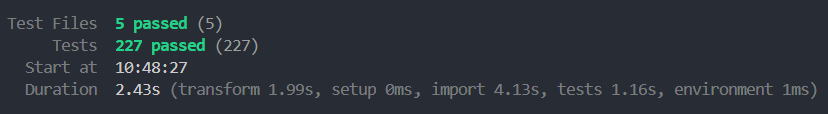
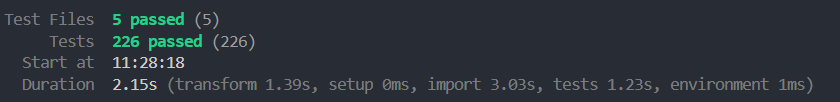
fixing tests after reserveSeats logic fix

diff --git a/api/src/modules/tickets/tickets.service.unit.test.ts b/api/src/modules/tickets/tickets.service.unit.test.ts
@@ -254,19 +254,13 @@ const makeRedisMock = (
     };
 };
 
-/** Create a Prisma mock whose findMany returns `availableSeats`.
- *  `seatCount` overrides the value returned by `seat.count`; defaults to availableSeats.length. */
-const makePrismaMock = (availableSeats: object[] = [], seatCount?: number) => ({
+const makePrismaMock = (availableSeats: object[] = []) => ({
     seat: {
-        count: vi.fn().mockResolvedValue(seatCount ?? availableSeats.length),
         findMany: vi.fn().mockResolvedValue(availableSeats),
         updateMany: vi.fn().mockResolvedValue({ count: availableSeats.length }),
     },
 });
 
-/** Build the full service under test with the given world state.
- *  `availableSeatCount` overrides what `prisma.seat.count` returns; useful for testing
- *  the dynamic upper-bound check without inflating the available-seat list. */
 const buildService = ({
     seatIds = makeSeatIds(2),
     allAvailable = true,
@@ -274,16 +268,13 @@ const buildService = ({
     lockResult = 'OK' as 'OK' | string[] | Error,
     dbError = undefined as Error | undefined,
     queueError = undefined as Error | undefined,
-    availableSeatCount = undefined as number | undefined,
 } = {}) => {
     const availableSeats = allAvailable
         ? makeAvailableSeats(seatIds.filter(id => !unavailableSeatIds.includes(id)))
         : makeAvailableSeats(seatIds.filter(id => !unavailableSeatIds.includes(id)));
 
     const redis = makeRedisMock(lockResult);
-    // Default count to seatIds.length so tests that aren't exercising the
-    // count boundary don't accidentally trip it when some seats are unavailable.
-    const prisma = makePrismaMock(availableSeats, availableSeatCount ?? seatIds.length);
+    const prisma = makePrismaMock(availableSeats);
 
     if (dbError) {
         prisma.seat.updateMany.mockRejectedValue(dbError);
@@ -356,10 +347,9 @@ describe('TicketService.reserveSeats — behavior', () => {
                 expect(result).toMatchObject(EXPECTED_SUCCESS_RETURN_OBJECT);;
             });
 
-            it(`succeeds when requesting exactly as many seats as are available in the database`, async () => {
-                // DB reports MAX_SEATS available; requesting exactly MAX_SEATS must succeed.
+            it(`succeeds with exactly MAX_SEATS (${MAX_SEATS}) seats (the maximum allowed per reservation)`, async () => {
                 const seatIds = makeSeatIds(MAX_SEATS);
-                const { service } = buildService({ seatIds, availableSeatCount: MAX_SEATS });
+                const { service } = buildService({ seatIds });
 
                 const result = await service.reserveSeats(seatIds, USER_ID);
 
@@ -372,18 +362,9 @@ describe('TicketService.reserveSeats — behavior', () => {
                 await expect(service.reserveSeats([], USER_ID)).rejects.toThrow("Invalid number of seats provided.")
             });
 
-            it(`fails immediately when requesting more seats than are available in the database`, async () => {
-                // DB reports MAX_SEATS available; requesting MAX_SEATS+1 must be rejected.
+            it(`fails immediately when requesting more than MAX_SEATS (${MAX_SEATS + 1}+) seats`, async () => {
                 const seatIds = makeSeatIds(MAX_SEATS + 1);
-                const { service } = buildService({ seatIds, availableSeatCount: MAX_SEATS });
-
-                await expect(service.reserveSeats(seatIds, USER_ID)).rejects.toThrow("Invalid number of seats provided.")
-            });
-
-            it('fails when requested seat count exceeds available count by an arbitrary margin', async () => {
-                // 3 seats available in DB, but 7 are requested.
-                const seatIds = makeSeatIds(7);
-                const { service } = buildService({ seatIds, availableSeatCount: 3 });
+                const { service } = buildService({ seatIds });
 
                 await expect(service.reserveSeats(seatIds, USER_ID)).rejects.toThrow("Invalid number of seats provided.")
             });
@@ -413,9 +394,7 @@ describe('TicketService.reserveSeats — behavior', () => {
 
             it('fails when the seat ids array contains duplicates', async () => {
                 const id = 'seat-uuid-1';
-                // reserveSeats receives 2 items; availableSeatCount must be >= 2
-                // so the count guard doesn't fire before the duplicate check.
-                const { service } = buildService({ seatIds: [id], availableSeatCount: 2 });
+                const { service } = buildService({ seatIds: [id] });
 
                 await expect(service.reserveSeats([id, id], USER_ID)).rejects.toThrow("Duplicate Seat IDs provided.")
             });
@@ -483,9 +462,7 @@ describe('TicketService.reserveSeats — behavior', () => {
             it('fails when a requested seat id does not exist in the database at all', async () => {
                 const realIds = makeSeatIds(2);
                 const ghostId = 'non-existent-seat-uuid';
-                // reserveSeats receives 3 items; availableSeatCount must be >= 3
-                // so the count guard doesn't fire before findMany returns the mismatch.
-                const { service } = buildService({ seatIds: realIds, availableSeatCount: realIds.length + 1 });
+                const { service } = buildService({ seatIds: realIds });
 
                 // The ghost id is not in DB, so findMany returns only the real ones.
                 await expect(service.reserveSeats([...realIds, ghostId], USER_ID)).rejects.toThrow("Some seats are not available.")

diff --git a/api/src/modules/tickets/tickets.routes.ts b/api/src/modules/tickets/tickets.routes.ts
@@ -83,7 +83,12 @@ export default async function routes(fastify: FastifyInstance, options: Object) 
             console.log('[tickets.routes POST /tickets/reserve]: Caught error:', printable_error);
             fastify.log.error(error, '[POST /tickets/reserve] Failed to reserve seats');
 
-            return reply.status(500).send({ message: 'Internal server error.' });
+            if (error instanceof ForbiddenError) {
+                console.log("[tickets.routes /payment/intent]: Caught 403 Error. Returning.")
+                return reply.status(403).send({ message: error.message });
+            } else {
+                return reply.status(500).send({ message: 'Internal server error.' });
+            }
         }
     });
 

diff --git a/README.md b/README.md
@@ -60,30 +60,46 @@ node src/test/run-performance.mjs e2e_load
 * `checks_succeeded` percentage is 100.00%
 * `checks_failed` percentage is 0.00%
 * average `iteration_duration` is 50.01 seconds
+
 ![See the full results](/resources/k6_e2e_stress_test.png)
 
 ### Unit Tests
-#### Total tests: 227
+#### Total tests: 226
 #### Results
-* 227/227 tests passed
+* 226/226 tests passed
+
 ![Unit test results](/resources/unit_test_output.png)
 
 ### End-to-end Tests
 #### Users service (22 tests)
 * 22/22 tests passed
+
 ![Users E2E test results](/resources/users_e2e_tests.png)
+
+
 #### Auth service (28 tests)
 * 28/28 tests passed
+
 ![Auth E2E test results](/resources/auth_e2e_tests.png)
+
+
 #### Events service (21 tests)
 * 21/21 tests passed
+
 ![Events E2E test results](/resources/events_e2e_tests.png)
+
+
 #### Tickets service (30 tests)
 * 30/30 tests passed
+
 ![Tickets E2E test results](/resources/tickets_e2e_tests.png)
+
+
 #### Webhooks service (6 tests)
 * 6/6 tests passed
+
 ![Webhooks E2E test results](/resources/webhooks_e2e_tests.png)
+
 
 ## Tech Stack breakdown
 * DB
